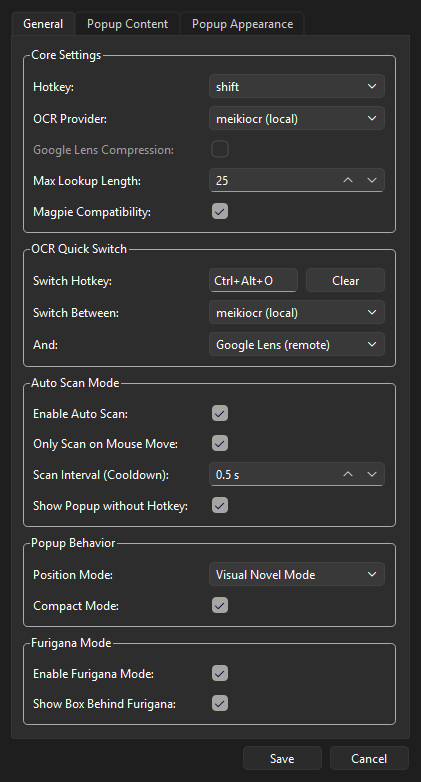
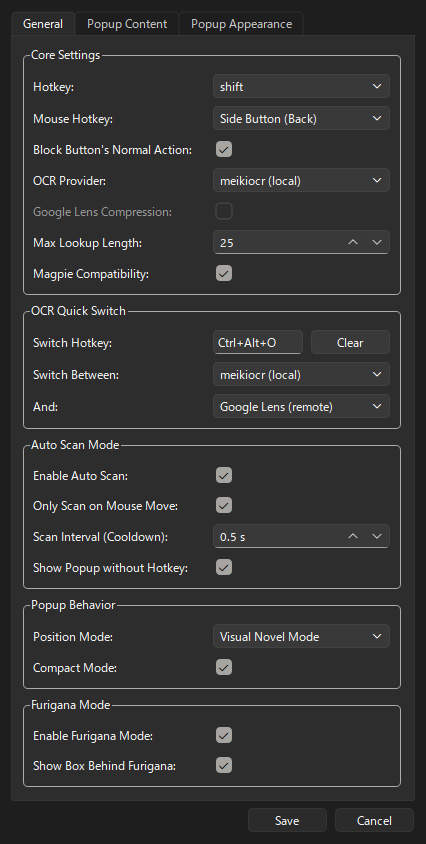
Add mouse button hotkey (middle / side buttons); v2.3.0
- New "Mouse Hotkey" setting: hold the middle or a side mouse button to show
  the popup, in addition to the keyboard hotkey
- Windows: optionally blocks the button's normal action (e.g. browser back)
- README entry and updated settings screenshot

diff --git a/src/meikipop/gui/mouse_hotkey.py b/src/meikipop/gui/mouse_hotkey.py
@@ -1,0 +1,88 @@
+# meikipop/gui/mouse_hotkey.py
+"""Lets a mouse button (middle or a side button) work as the popup hotkey, in addition to the keyboard hotkey."""
+import logging
+import threading
+
+from pynput import mouse
+
+from meikipop.config.config import config, IS_WINDOWS
+
+logger = logging.getLogger(__name__)
+
+# config value -> label shown in settings
+MOUSE_HOTKEY_OPTIONS = {
+    'none': 'None',
+    'middle': 'Middle Button (Wheel Click)',
+    'x1': 'Side Button (Back)',
+    'x2': 'Side Button (Forward)',
+}
+
+# Windows low-level mouse hook messages
+_WM_MBUTTONDOWN, _WM_MBUTTONUP = 0x0207, 0x0208
+_WM_XBUTTONDOWN, _WM_XBUTTONUP = 0x020B, 0x020C
+
+
+class MouseHotkey:
+    def __init__(self):
+        self._pressed = False
+        self._lock = threading.Lock()
+        self._listener = None
+        self._button = 'none'
+        self._block = False
+        self.apply_settings()
+
+    def is_pressed(self) -> bool:
+        return self._pressed
+
+    def apply_settings(self):
+        button = (config.mouse_hotkey or 'none').lower()
+        block = bool(config.mouse_hotkey_block) and IS_WINDOWS
+        with self._lock:
+            if button == self._button and block == self._block and (self._listener or button == 'none'):
+                return
+            self._stop()
+            self._button, self._block = button, block
+            self._pressed = False
+            if button not in MOUSE_HOTKEY_OPTIONS or button == 'none':
+                return
+            try:
+                if IS_WINDOWS:
+                    self._listener = mouse.Listener(win32_event_filter=self._win32_filter)
+                else:
+                    self._listener = mouse.Listener(on_click=self._on_click)
+                self._listener.daemon = True
+                self._listener.start()
+                logger.info(f"Mouse hotkey '{button}' enabled (block normal action: {block}).")
+            except Exception as e:
+                self._listener = None
+                logger.error(f"Could not start mouse hotkey listener: {e}")
+
+    def _stop(self):
+        if self._listener:
+            try:
+                self._listener.stop()
+            except Exception:
+                pass
+            self._listener = None
+
+    # --- Windows: raw hook messages, so the button's normal action (e.g. browser back) can be blocked ---
+    def _win32_filter(self, msg, data):
+        is_down = is_up = False
+        if self._button == 'middle':
+            is_down, is_up = msg == _WM_MBUTTONDOWN, msg == _WM_MBUTTONUP
+        elif self._button in ('x1', 'x2') and msg in (_WM_XBUTTONDOWN, _WM_XBUTTONUP):
+            which = (data.mouseData >> 16) & 0xFFFF  # 1 = XBUTTON1 (back), 2 = XBUTTON2 (forward)
+            if which == (1 if self._button == 'x1' else 2):
+                is_down, is_up = msg == _WM_XBUTTONDOWN, msg == _WM_XBUTTONUP
+        if not (is_down or is_up):
+            return True
+        self._pressed = is_down
+        if self._block and self._listener:
+            self._listener.suppress_event()
+        return True
+
+    # --- macOS / Linux ---
+    def _on_click(self, x, y, button, pressed):
+        names = {'middle': ['middle'], 'x1': ['x1', 'button8'], 'x2': ['x2', 'button9']}
+        if getattr(button, 'name', '') in names.get(self._button, []):
+            self._pressed = pressed

diff --git a/src/meikipop/gui/settings_dialog.py b/src/meikipop/gui/settings_dialog.py
@@ -12,6 +12,7 @@ from meikipop.gui.input import InputLoop
 from meikipop.gui.popup import Popup
 from meikipop.ocr.ocr import OcrProcessor
 from meikipop.gui.ocr_toggle import qt_sequence_to_hotkey
+from meikipop.gui.mouse_hotkey import MOUSE_HOTKEY_OPTIONS
 
 THEMES = {
     "Nazeka": {
@@ -77,6 +78,25 @@ class SettingsDialog(QDialog):
         self.hotkey_combo.setCurrentText(config.hotkey)
         self._set_expanding(self.hotkey_combo)
         core_layout.addRow("Hotkey:", self.hotkey_combo)
+
+        self.mouse_hotkey_combo = QComboBox()
+        for key, label in MOUSE_HOTKEY_OPTIONS.items():
+            self.mouse_hotkey_combo.addItem(label, key)
+        idx = self.mouse_hotkey_combo.findData(config.mouse_hotkey)
+        self.mouse_hotkey_combo.setCurrentIndex(idx if idx >= 0 else 0)
+        self.mouse_hotkey_combo.setToolTip("Hold this mouse button to show the popup (works together with the keyboard hotkey).")
+        self._set_expanding(self.mouse_hotkey_combo)
+        core_layout.addRow("Mouse Hotkey:", self.mouse_hotkey_combo)
+
+        if IS_WINDOWS:
+            self.mouse_hotkey_block_label = QLabel("Block Button's Normal Action:")
+            self.mouse_hotkey_block_check = QCheckBox()
+            self.mouse_hotkey_block_check.setChecked(config.mouse_hotkey_block)
+            self.mouse_hotkey_block_check.setToolTip(
+                "Stops the mouse button from doing its usual thing (e.g. going back in the browser) while used as hotkey.")
+            core_layout.addRow(self.mouse_hotkey_block_label, self.mouse_hotkey_block_check)
+            self.mouse_hotkey_combo.currentIndexChanged.connect(self._update_mouse_hotkey_state)
+            self._update_mouse_hotkey_state()
 
         self.ocr_provider_combo = QComboBox()
         self.ocr_provider_combo.addItems(self.ocr_processor.available_providers.keys())
@@ -442,6 +462,11 @@ class SettingsDialog(QDialog):
         self.auto_scan_no_hotkey_check_label.setEnabled(is_checked)
         self.auto_scan_mouse_move_check_label.setEnabled(is_checked)
 
+    def _update_mouse_hotkey_state(self, *_):
+        enabled = self.mouse_hotkey_combo.currentData() != 'none'
+        self.mouse_hotkey_block_check.setEnabled(enabled)
+        self.mouse_hotkey_block_label.setEnabled(enabled)
+
     def _update_furigana_state(self, is_checked):
         """Grays out furigana sub-options if furigana mode is off."""
         self.furigana_box_check.setEnabled(is_checked)
@@ -494,6 +519,9 @@ class SettingsDialog(QDialog):
 
         # Update all other config values
         config.hotkey = self.hotkey_combo.currentText()
+        config.mouse_hotkey = self.mouse_hotkey_combo.currentData()
+        if IS_WINDOWS:
+            config.mouse_hotkey_block = self.mouse_hotkey_block_check.isChecked()
         config.glens_low_bandwidth = self.glens_compression_check.isChecked()
         config.max_lookup_length = self.max_lookup_spin.value()
         config.auto_scan_mode = self.auto_scan_check.isChecked()

diff --git a/src/meikipop/gui/input.py b/src/meikipop/gui/input.py
@@ -7,6 +7,7 @@ import time
 from pynput import mouse
 
 from meikipop.config.config import config, IS_LINUX, IS_MACOS
+from meikipop.gui.mouse_hotkey import MouseHotkey
 
 if IS_LINUX:
     from Xlib import display as xlib_display
@@ -149,6 +150,7 @@ class InputLoop(threading.Thread):
         else: # IS_WINDOWS
             self.keyboard_controller = WindowsKeyboardController(self.hotkey_str)
 
+        self.mouse_hotkey = MouseHotkey()
         self.started_auto_mode = False
         self.hotkey_is_pressed = False
 
@@ -164,7 +166,7 @@ class InputLoop(threading.Thread):
             try:
                 current_mouse_pos = self.get_mouse_pos()
                 try:
-                    hotkey_is_pressed = self.keyboard_controller.is_hotkey_pressed()
+                    hotkey_is_pressed = self._hotkey_down()
                 except Exception:
                     hotkey_is_pressed = False
 
@@ -199,13 +201,22 @@ class InputLoop(threading.Thread):
         logger.debug("Input thread stopped.")
 
     def is_real_hotkey_down(self):
-        return self.keyboard_controller.is_hotkey_pressed()
+        return self._hotkey_down()
+
+    def _hotkey_down(self):
+        if self.mouse_hotkey.is_pressed():
+            return True
+        try:
+            return self.keyboard_controller.is_hotkey_pressed()
+        except Exception:
+            return False
 
     def is_virtual_hotkey_down(self):
-        return self.keyboard_controller.is_hotkey_pressed() or (
+        return self._hotkey_down() or (
                 config.auto_scan_mode and config.auto_scan_mode_lookups_without_hotkey)
 
     def reapply_settings(self):
+        self.mouse_hotkey.apply_settings()
         logger.debug(f"InputLoop: Re-applying settings. New hotkey: '{config.hotkey}'.")
         self.hotkey_str = config.hotkey.lower()
         if IS_LINUX:

diff --git a/src/meikipop/config/config.py b/src/meikipop/config/config.py
@@ -9,7 +9,7 @@ from meikipop.utils.paths import paths
 logger = logging.getLogger(__name__)
 
 APP_NAME = "meikipop"
-APP_VERSION = "2.2.0"
+APP_VERSION = "2.3.0"
 MAX_DICT_ENTRIES = 10
 IS_LINUX = sys.platform.startswith('linux')
 IS_WINDOWS = sys.platform.startswith('win')
@@ -30,6 +30,8 @@ class Config:
     _SCHEMA = {
         'Settings': {
             'hotkey': 'shift',
+            'mouse_hotkey': 'none',
+            'mouse_hotkey_block': True,
             'scan_region': 'region',
             'max_lookup_length': 25,
             'glens_low_bandwidth': False,

diff --git a/README.md b/README.md
@@ -22,12 +22,15 @@ choose how many dictionary results the popup shows (1–50, you can type the num
 
 ![max words setting](docs/images/settings-popup-content.png)
 
+### mouse button as hotkey
+hold the middle mouse button or a side button (back/forward) to show the popup, instead of or together with the keyboard hotkey. on windows the button's normal action (like going back in the browser) is blocked while it's used as the hotkey. settings → general → mouse hotkey.
+
 ### ocr quick switch (windows)
 press a hotkey (default `ctrl+alt+o`) to switch between two ocr providers, e.g. local meikiocr for normal reading and google lens for hard text. a small notice shows which one is now active. settings → general → ocr quick switch.
 
 ![ocr switch notice](docs/images/ocr-switch.png)
 
-![general settings with ocr quick switch and furigana mode](docs/images/settings-general.png)
+![general settings with mouse hotkey, ocr quick switch and furigana mode](docs/images/settings-general.png)
 
 ### scan area: screen under mouse
 only scans the screen your mouse is on, so multi-monitor setups send much smaller images (faster with google lens). each screen keeps its last result, so moving back to a screen works instantly. tray menu → scan area → screen under mouse.
